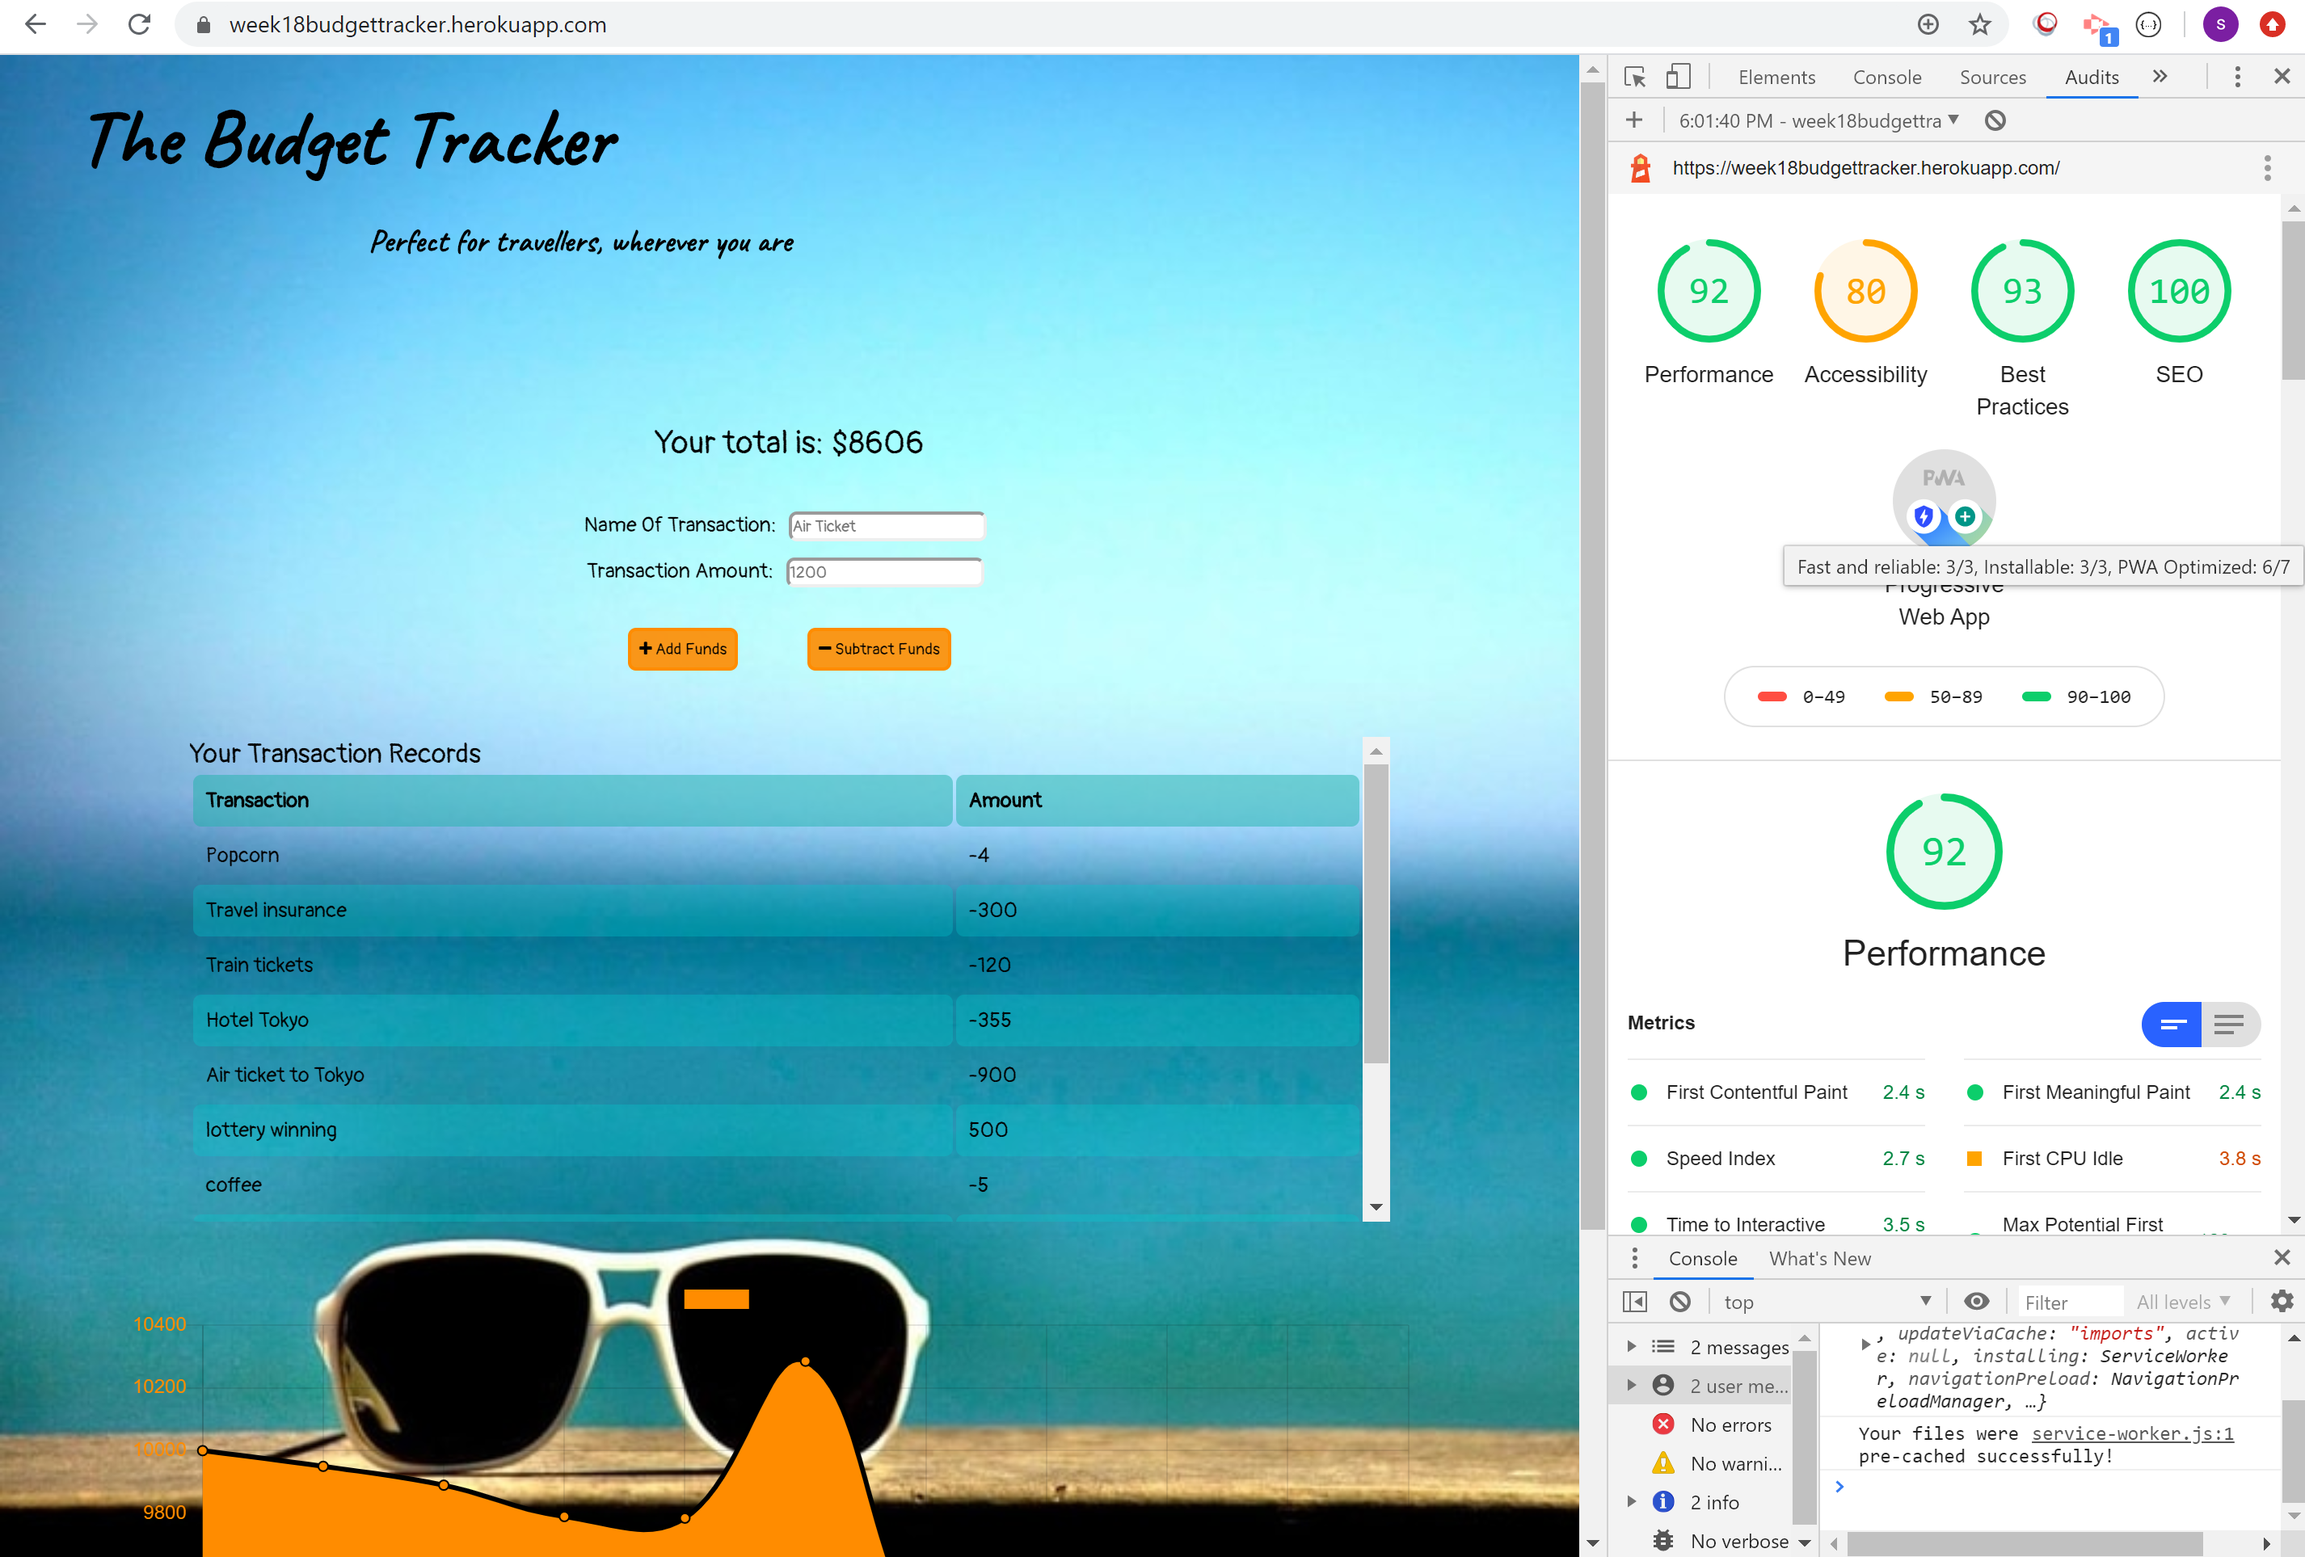
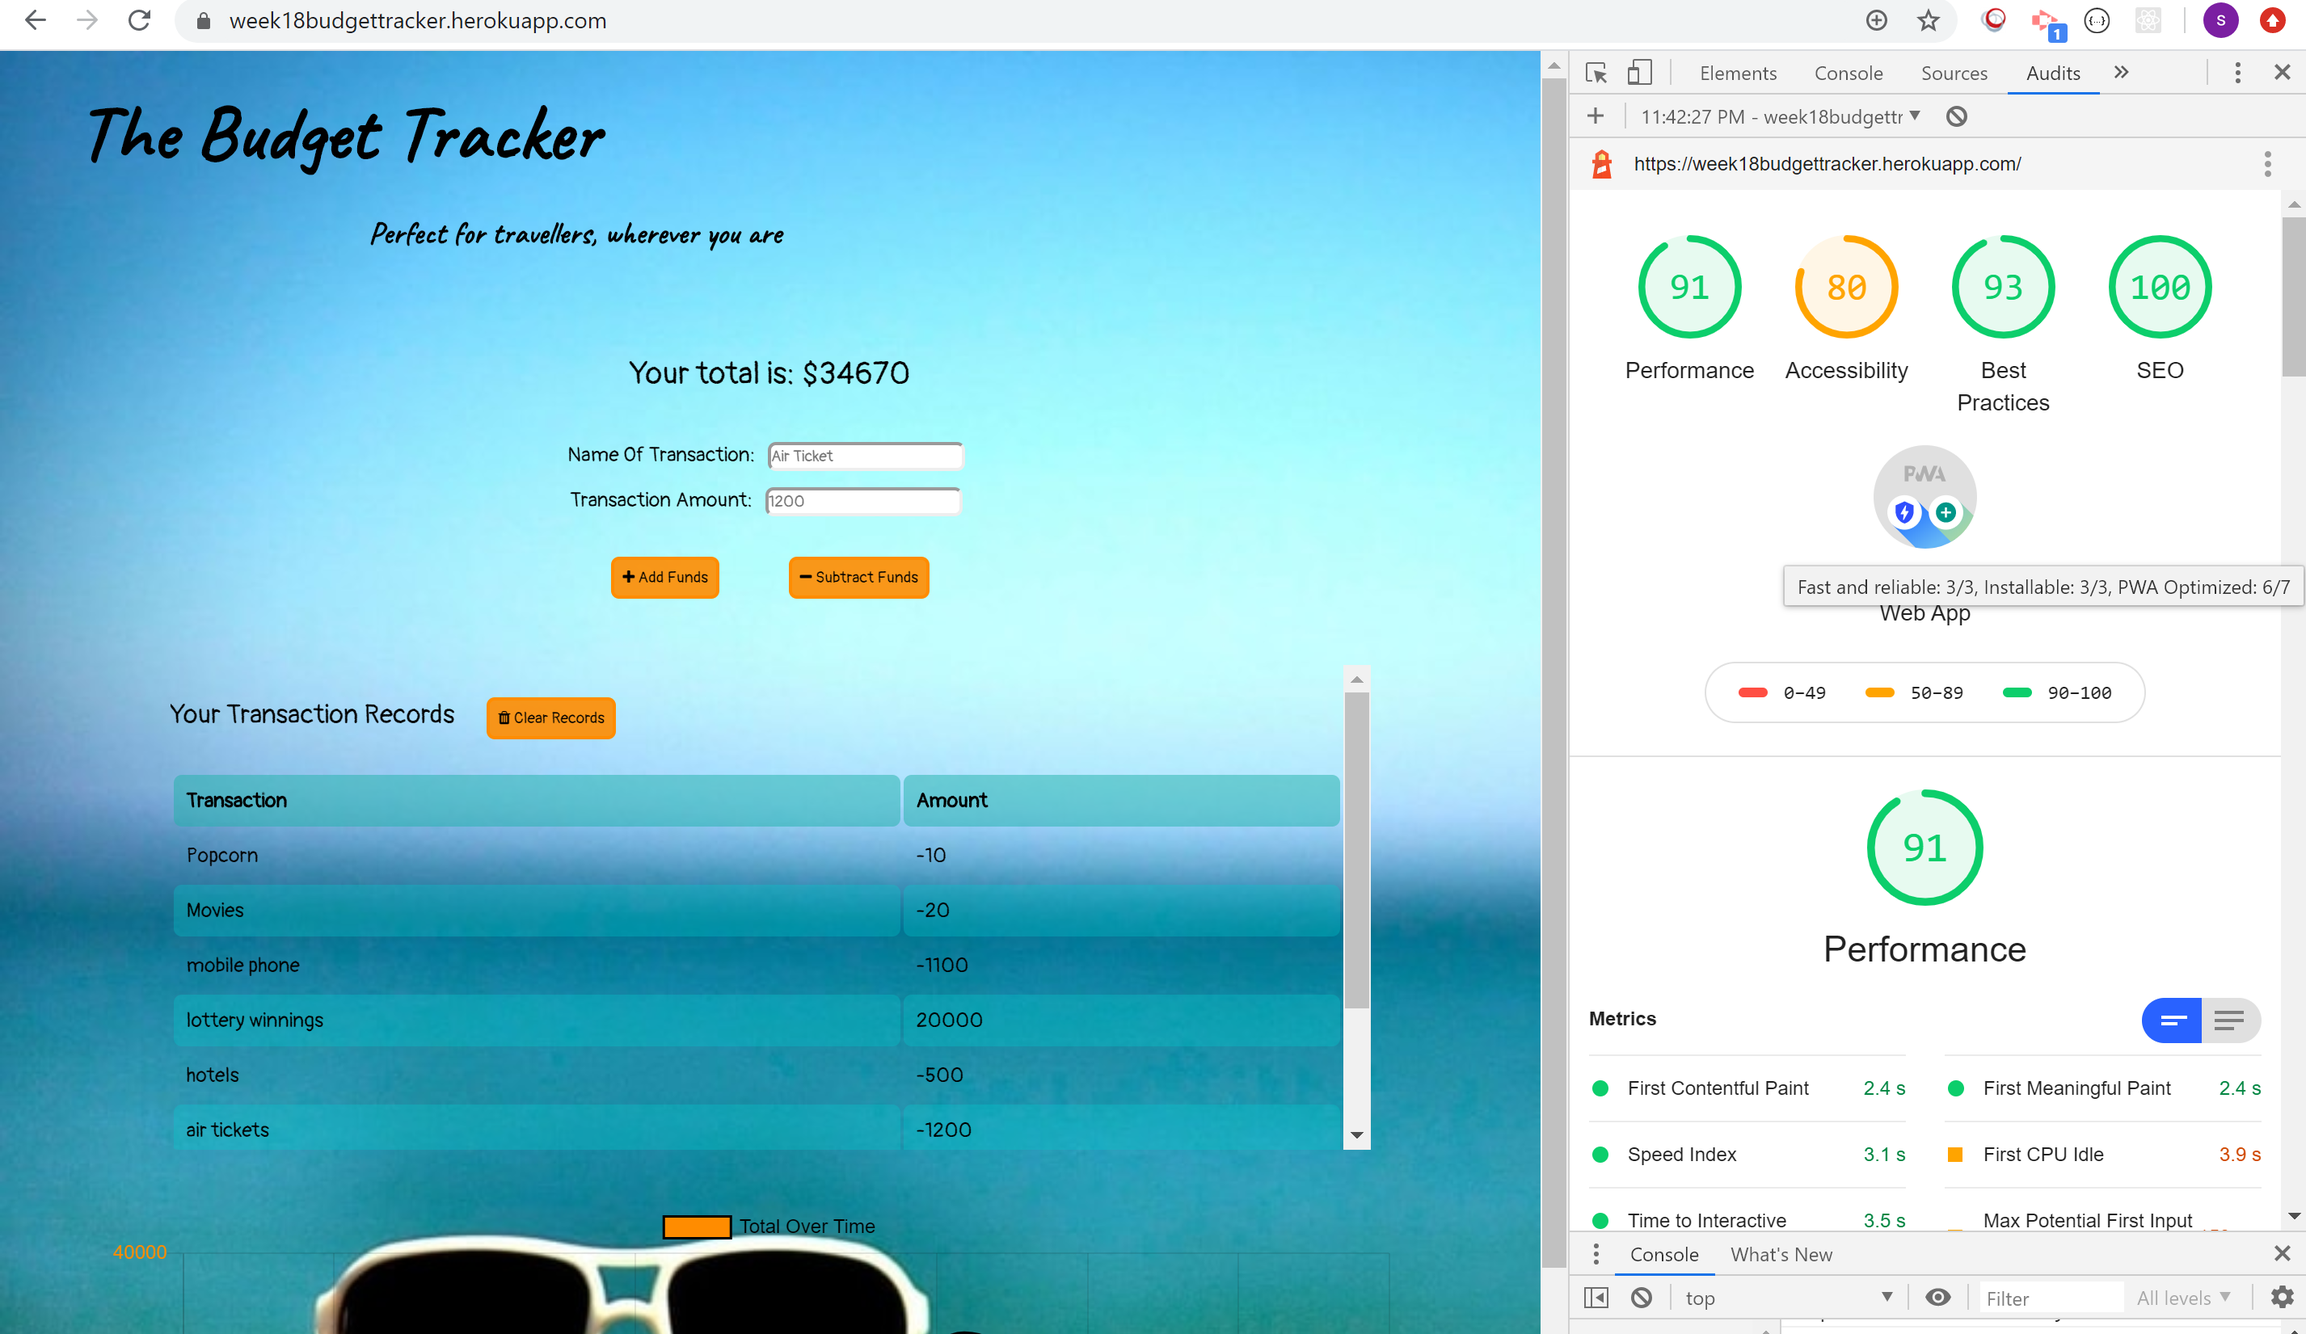
edited readme and screenshots

diff --git a/README.md b/README.md
@@ -8,6 +8,8 @@
 
 This project is to create an app that allows users to track their incoming and outgoing money flow while they are travelling, regardless of whether they are online or offline. The app utilizes mongodb (while online) and indexeddb (while offline) to record the transactions, and when the user goes back online, all temporary data stored in indexeddb will be uploaded to mongodb for consolidation.
 
+Note: there is an additional 'clear' button to clear the transaction records. However this function only works when the app is online. When offline, nothing will happen when user clicks on the 'clear' button.
+
 ## Applications Used
 + MongoDB / Mongoose
 + Express
@@ -31,8 +33,13 @@ This project is to create an app that allows users to track their incoming and o
 <img src="screenshots/Screenshot6.png" width= "500" >
 6. User can continue to enter new transactions, whether online or offline. The switch between online and offline in the app will not be visible to them, and the entries are consolidated once online.
 <img src="screenshots/Screenshot7.png" width= "500" >
-7. App performance and PWA rating are also high.
+7. There is a chart at the bottom of the page that tracks budget amount movements.
+<img src="screenshots/Screenshot9.png" width= "500" >
+8. There is also a "clear" button to clear the list and begin again. *note that this function only works when the app is online - it will not work while offline.
+<img src="screenshots/Screenshot10.png" width= "500" >
+9. App performance and PWA rating are also high.
 <img src="screenshots/Screenshot8.png" width= "500" >
+
 
 
 
